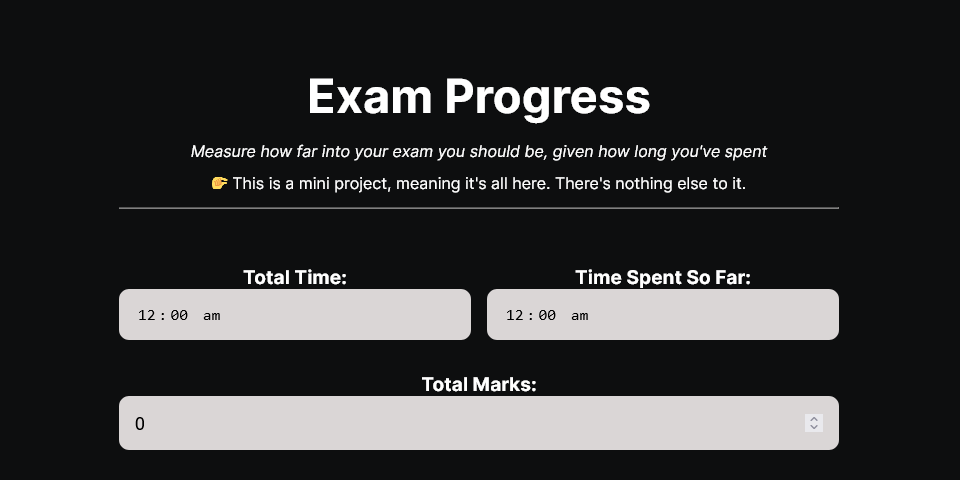
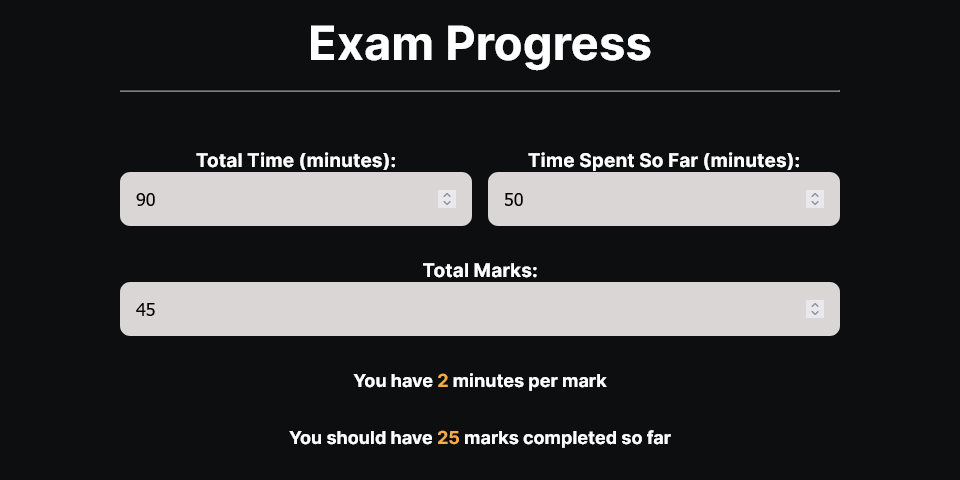
fixed hero image

diff --git a/src/components/ExamProgress/index.tsx b/src/components/ExamProgress/index.tsx
@@ -8,7 +8,7 @@ const ExamProgress = () => {
 	const [marks, setMarks] = createSignal<number>(0);
 	const [time, setTime] = createSignal<number>(0);
 	const [spentTime, setSpentTime] = createSignal<number>(0);
-	const [questions, setQuestions] = createSignal<number>(0);
+	// const [questions, setQuestions] = createSignal<number>(0);
 
 	const marksPerMinute = createMemo(() => {
 		const mpm = marks() / time();
@@ -64,9 +64,15 @@ const ExamProgress = () => {
 
 			{marksPerMinute() !== 0 && (
 				<div class={styles.output}>
-					<p>
-						You should be doing <span>{marksPerMinute()}</span> marks per minute
-					</p>
+					{marksPerMinute() < 1 ? (
+						<p>
+							You have <span>{1 / marksPerMinute()}</span> minutes per mark
+						</p>
+					) : (
+						<p>
+							You should be doing <span>{marksPerMinute()}</span> marks per minute
+						</p>
+					)}
 					<p>
 						You should have <span>{marksPerMinute() * spentTime()}</span> marks completed so far
 					</p>
